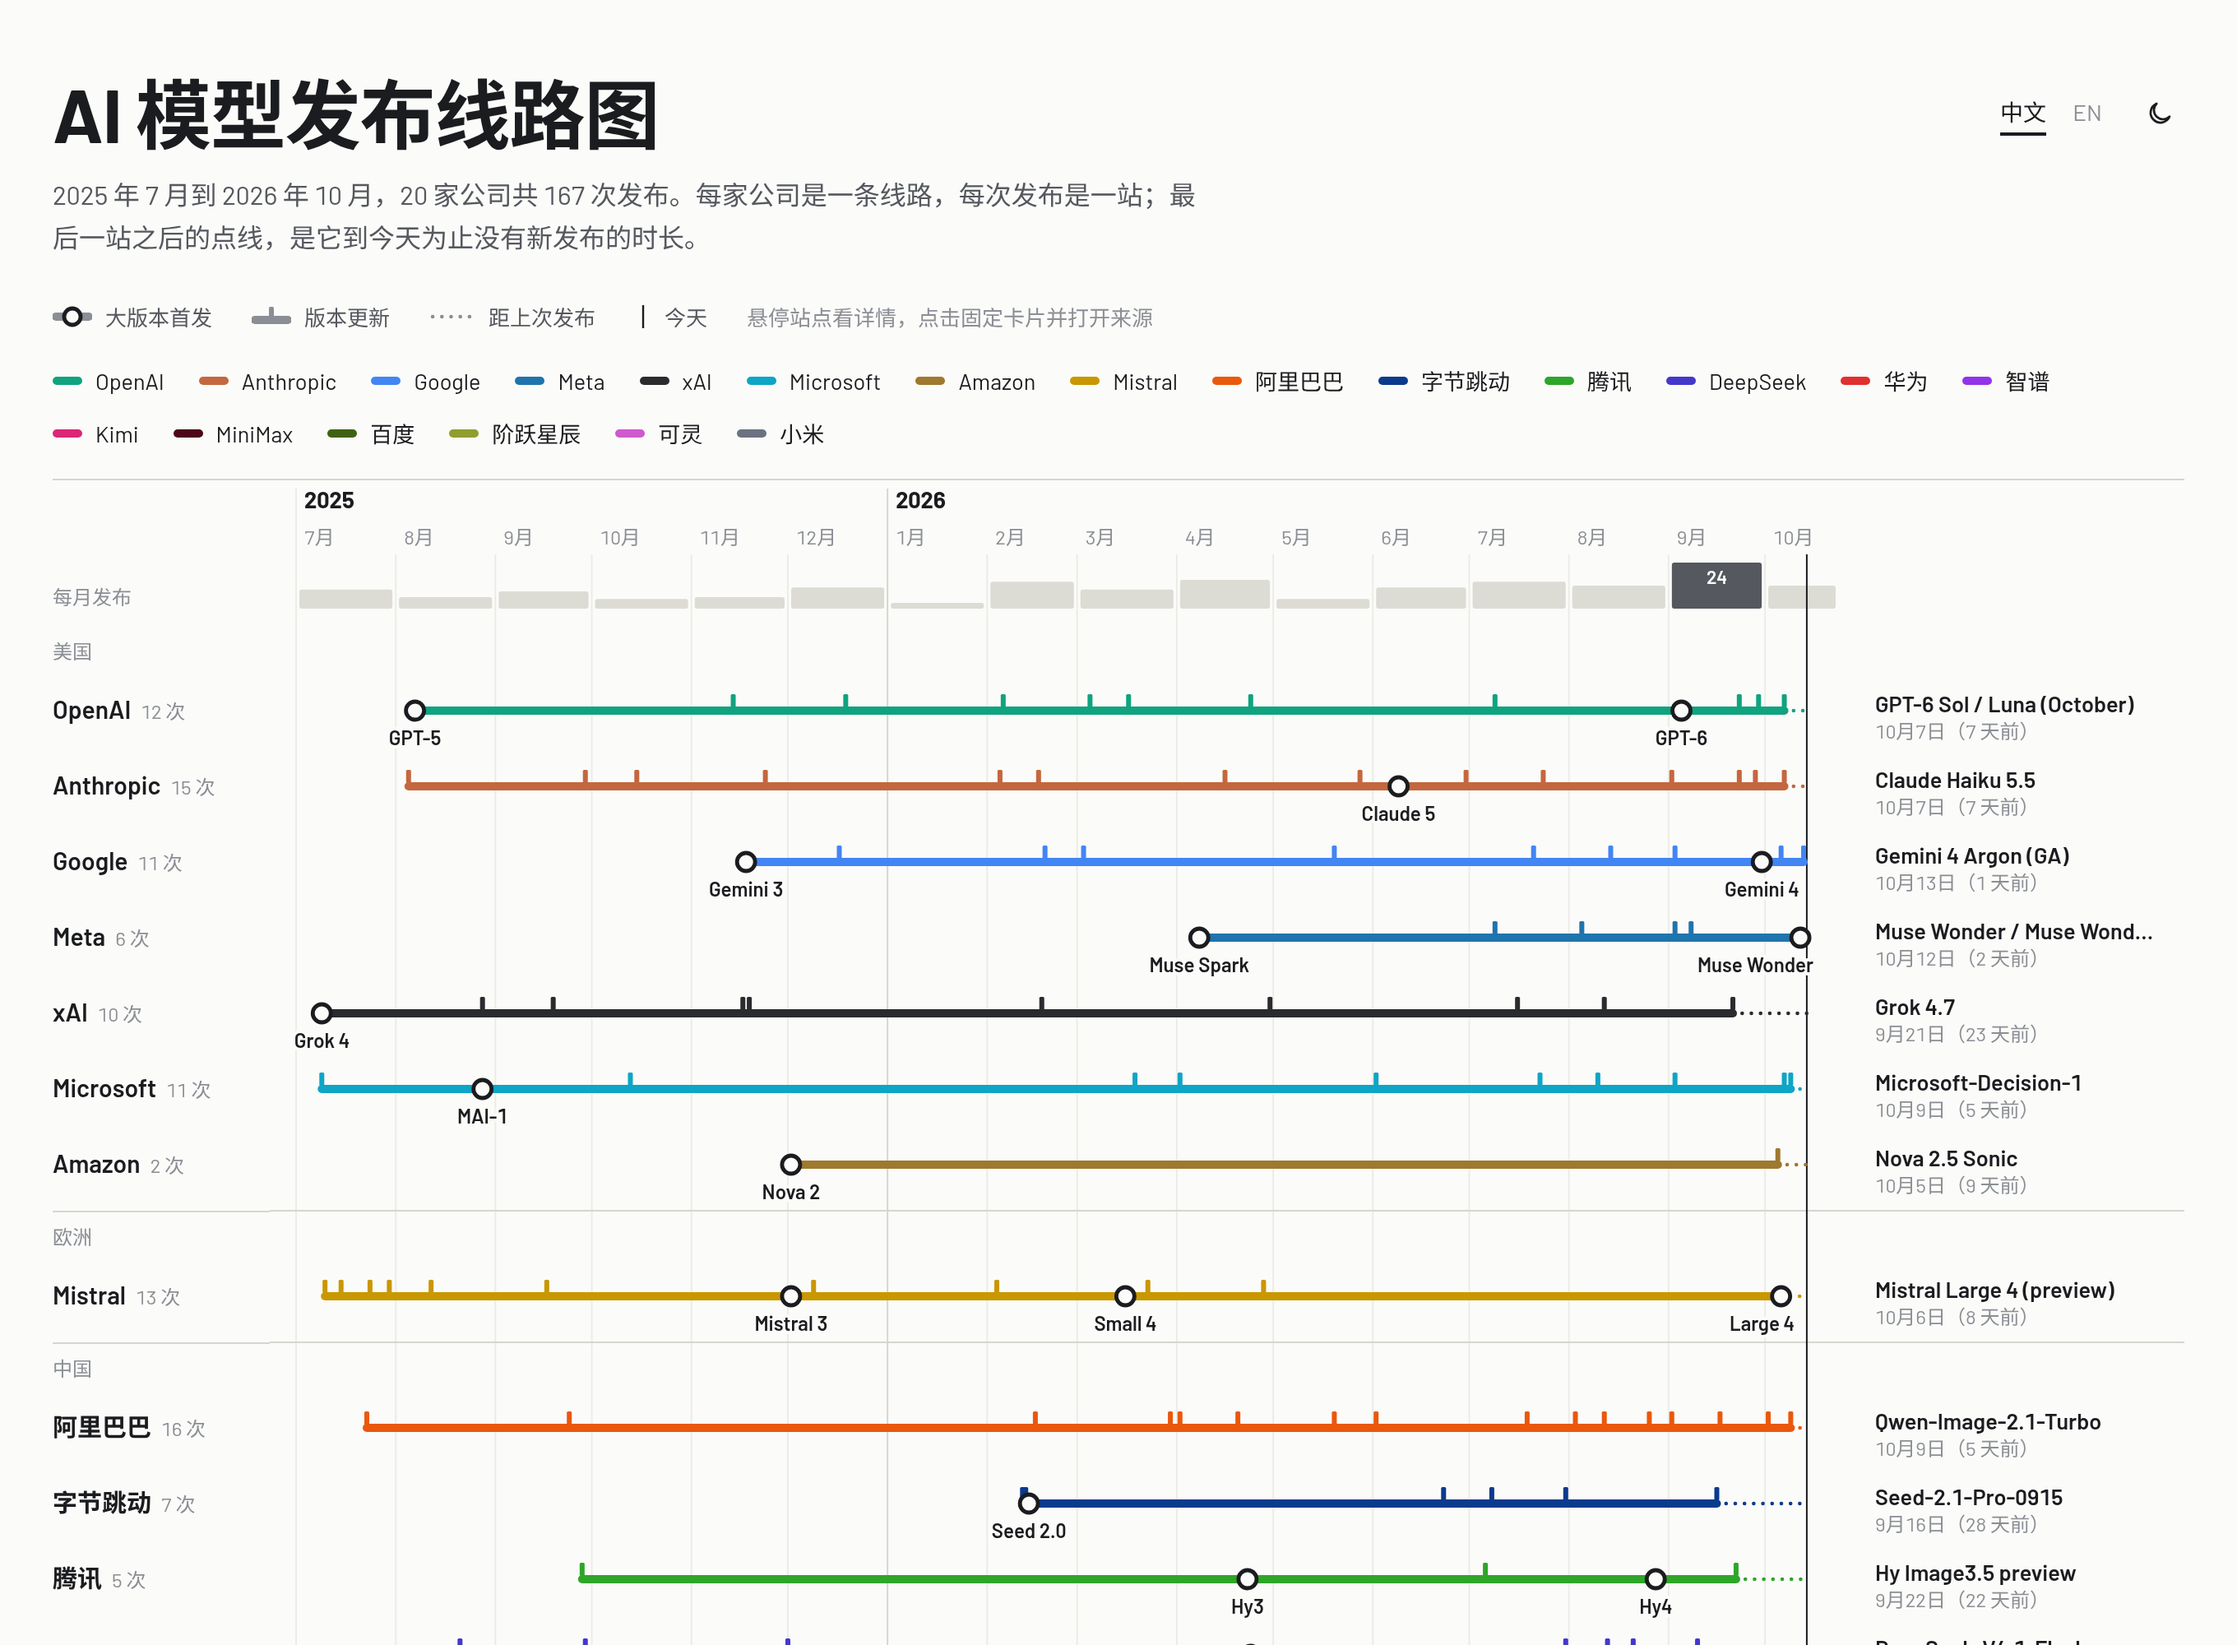
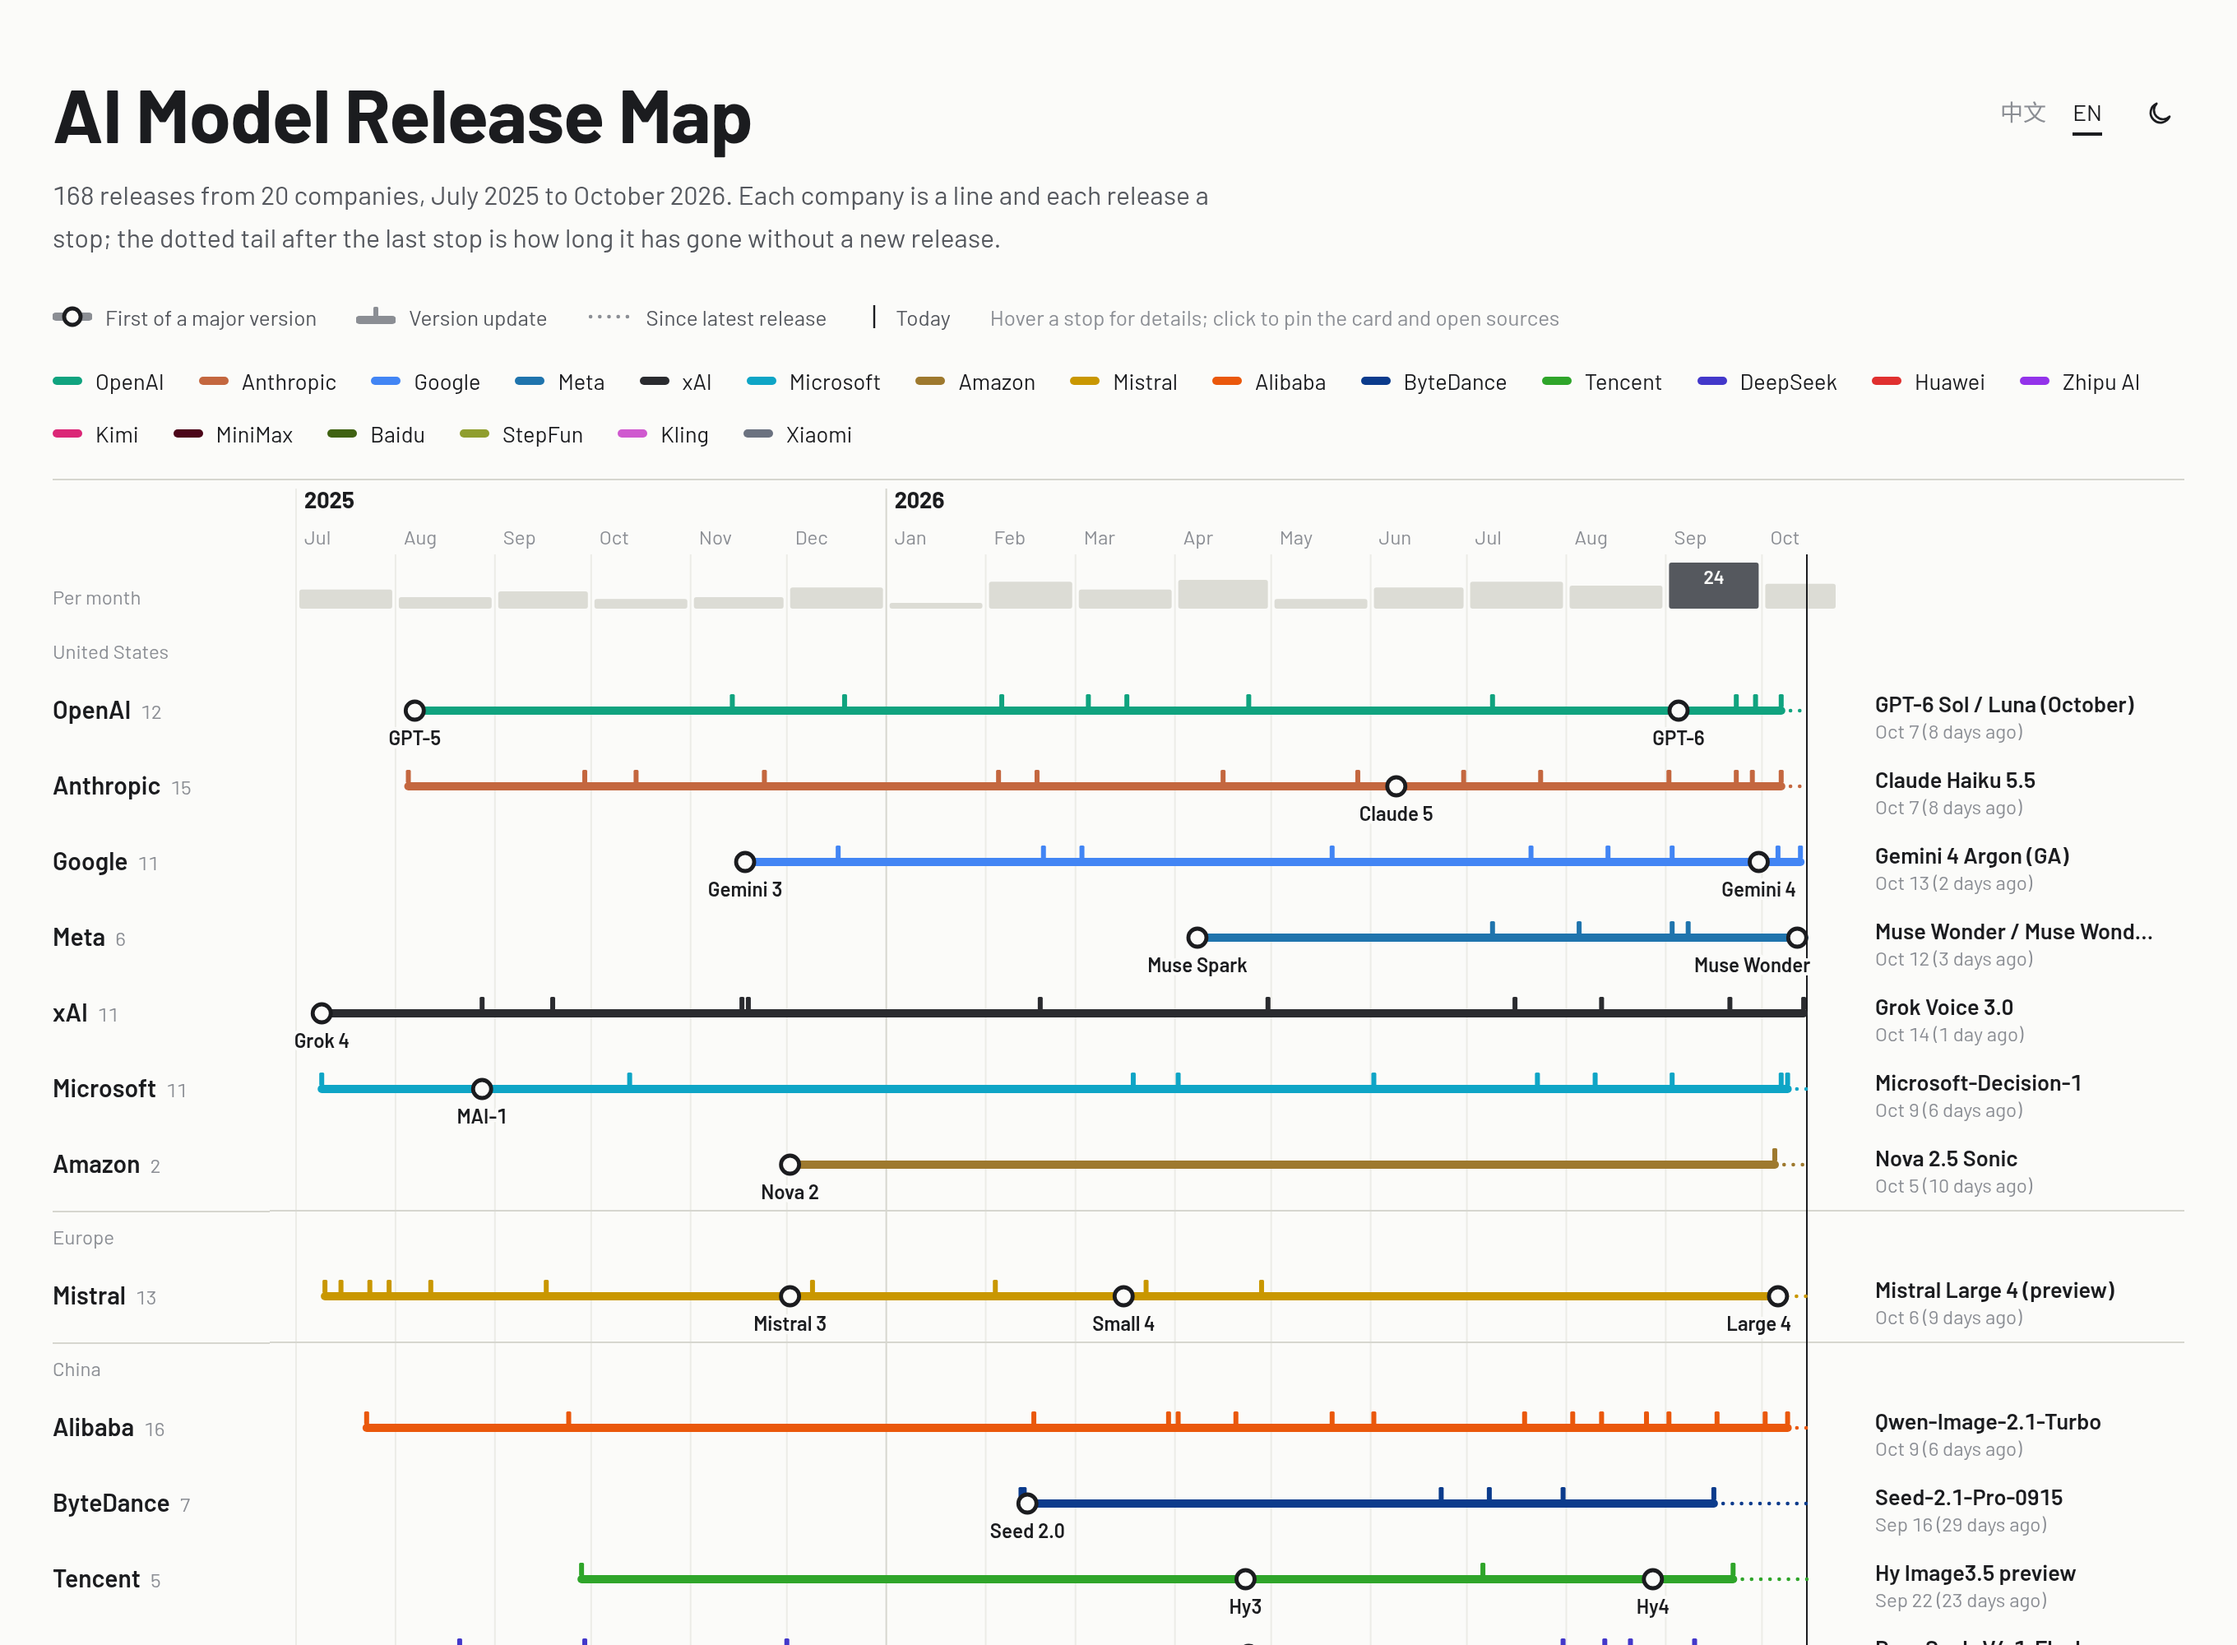
Auto-update: add Grok Voice 3.0 (2026-10-14); official sources for DeepSeek-V3.1, V3.2

diff --git a/index.html b/index.html
@@ -249,9 +249,9 @@ const DATA=[
 {company:"腾讯",model:"Hy3",date:"2026-07-06",source:"https://www.tencent.com/zh-cn/tencent-hunyuan-officially-releases-hy3-advancing-agent-capabilities-and-deeper-product-integration/"},
 {company:"腾讯",model:"Hy4 preview",date:"2026-08-28",source:"https://www.tencent.com/zh-cn/tencent-releases-and-open-sources-tencent-hy4-preview/"},
 {company:"腾讯",model:"Hy Image3.5 preview",date:"2026-09-22",source:"https://stock.10jqka.com.cn/20260922/c680158119.shtml"},
-{company:"DeepSeek",model:"DeepSeek-V3.1",date:"2025-08-21",source:MT},
+{company:"DeepSeek",model:"DeepSeek-V3.1",date:"2025-08-21",source:"https://api-docs.deepseek.com/news/news250821"},
 {company:"DeepSeek",model:"DeepSeek-V3.2-Exp",date:"2025-09-29",source:"https://api-docs.deepseek.com/news/news250929"},
-{company:"DeepSeek",model:"DeepSeek-V3.2 / V3.2-Speciale",date:"2025-12-01",source:MT},
+{company:"DeepSeek",model:"DeepSeek-V3.2 / V3.2-Speciale",date:"2025-12-01",source:"https://api-docs.deepseek.com/news/news251201"},
 {company:"DeepSeek",model:"DeepSeek-V4 Pro / Flash Preview",date:"2026-04-24",source:"https://api-docs.deepseek.com/news/news260424"},
 {company:"DeepSeek",model:"DeepSeek-V4 Flash",date:"2026-07-31",source:MT},
 {company:"DeepSeek",model:"DeepSeek-V4 Pro",date:"2026-08-13",source:MT},
@@ -288,6 +288,7 @@ const DATA=[
 {company:"xAI",model:"Grok 4.5",date:"2026-07-16",source:"https://x.ai/news/grok-4-5"},
 {company:"xAI",model:"Grok 4.6",date:"2026-08-12",source:"https://x.ai/news/grok-4-6"},
 {company:"xAI",model:"Grok 4.7",date:"2026-09-21",source:"https://x.ai/news/grok-4-7"},
+{company:"xAI",model:"Grok Voice 3.0",date:"2026-10-14",source:"https://x.ai/news/grok-voice-3"},
 {company:"Microsoft",model:"Phi-4-mini-flash-reasoning",date:"2025-07-09",source:"https://azure.microsoft.com/en-us/blog/reasoning-reimagined-introducing-phi-4-mini-flash-reasoning/"},
 {company:"Microsoft",model:"MAI-1-preview / MAI-Voice-1",date:"2025-08-28",source:"https://microsoft.ai/news/two-new-in-house-models/"},
 {company:"Microsoft",model:"MAI-Image-1",date:"2025-10-13",source:"https://microsoft.ai/story/introducing-mai-image-1-debuting-in-the-top-10-on-lmarena/"},
@@ -364,14 +365,14 @@ zh:{title:"AI 模型发布线路图",
  latestH:"各公司最新一站",groups:{us:"美国",eu:"欧洲",cn:"中国"},monthly:"每月发布",mon:m=>`${m}月`,d:(m,d)=>`${m}月${d}日`,full:(y,m,d)=>`${y}年${m}月${d}日`,
  ago:n=>n<=0?"今天":`${n} 天前`,sub:(dt,ago)=>`${dt}（${ago}）`,count:n=>`${n} 次`,off:"官方",third:"第三方",
  tbl:n=>`以表格查看全部 ${n} 次发布`,cols:["日期","公司","模型","来源"],filt:"显示或隐藏线路",themeL:"切换深浅色",
- foot:'数据来源：<a href="https://modeltimeline.com/zh/" target="_blank" rel="noopener">modeltimeline.com/zh</a>、<a href="https://www.datalearner.com/whats-new" target="_blank" rel="noopener">DataLearner</a>、各公司官方公告（OpenAI、Anthropic、Google、Meta、阿里云、DeepSeek、Kimi、字节跳动 Seed、腾讯、华为、xAI、Microsoft AI、Amazon、Mistral、MiniMax、百度、阶跃星辰、快手可灵、小米 MiMo 等）及新闻报道。仅收录在来源中实际查到的条目，同一天发布的多个型号合并为一站。整理日期：2026-10-14。'},
+ foot:'数据来源：<a href="https://modeltimeline.com/zh/" target="_blank" rel="noopener">modeltimeline.com/zh</a>、<a href="https://www.datalearner.com/whats-new" target="_blank" rel="noopener">DataLearner</a>、各公司官方公告（OpenAI、Anthropic、Google、Meta、阿里云、DeepSeek、Kimi、字节跳动 Seed、腾讯、华为、xAI、Microsoft AI、Amazon、Mistral、MiniMax、百度、阶跃星辰、快手可灵、小米 MiMo 等）及新闻报道。仅收录在来源中实际查到的条目，同一天发布的多个型号合并为一站。整理日期：2026-10-15。'},
 en:{title:"AI Model Release Map",
  lede:(n,c)=>`${n} releases from ${c} companies, July 2025 to October 2026. Each company is a line and each release a stop; the dotted tail after the last stop is how long it has gone without a new release.`,
  major:"First of a major version",minor:"Version update",multi:"Several on one day",gap:"Since latest release",today:"Today",hint:"Hover a stop for details; click to pin the card and open sources",
  latestH:"Latest stop by company",groups:{us:"United States",eu:"Europe",cn:"China"},monthly:"Per month",mon:m=>EN_M[m-1],d:(m,d)=>`${EN_M[m-1]} ${d}`,full:(y,m,d)=>`${EN_M[m-1]} ${d}, ${y}`,
  ago:n=>n<=0?"today":n==1?"1 day ago":`${n} days ago`,sub:(dt,ago)=>`${dt} (${ago})`,count:n=>`${n}`,off:"Official",third:"Third-party",
  tbl:n=>`View all ${n} releases as a table`,cols:["Date","Company","Model","Source"],filt:"Show or hide lines",themeL:"Toggle dark mode",
- foot:'Sources: <a href="https://modeltimeline.com/zh/" target="_blank" rel="noopener">modeltimeline.com/zh</a>, <a href="https://www.datalearner.com/whats-new" target="_blank" rel="noopener">DataLearner</a>, official announcements (OpenAI, Anthropic, Google, Meta, Alibaba Cloud, DeepSeek, Kimi, ByteDance Seed, Tencent, Huawei, xAI, Microsoft AI, Amazon, Mistral, MiniMax, Baidu, StepFun, Kuaishou Kling, Xiaomi MiMo, etc.) and news reports. Only entries actually found in sources are included; models released on the same day are merged into one stop. Compiled: 2026-10-14.'},};
+ foot:'Sources: <a href="https://modeltimeline.com/zh/" target="_blank" rel="noopener">modeltimeline.com/zh</a>, <a href="https://www.datalearner.com/whats-new" target="_blank" rel="noopener">DataLearner</a>, official announcements (OpenAI, Anthropic, Google, Meta, Alibaba Cloud, DeepSeek, Kimi, ByteDance Seed, Tencent, Huawei, xAI, Microsoft AI, Amazon, Mistral, MiniMax, Baidu, StepFun, Kuaishou Kling, Xiaomi MiMo, etc.) and news reports. Only entries actually found in sources are included; models released on the same day are merged into one stop. Compiled: 2026-10-15.'},};
 
 const qp=new URLSearchParams(location.search);
 const store={get:k=>{try{return localStorage.getItem(k)}catch(e){return null}},set:(k,v)=>{try{localStorage.setItem(k,v)}catch(e){}}};
